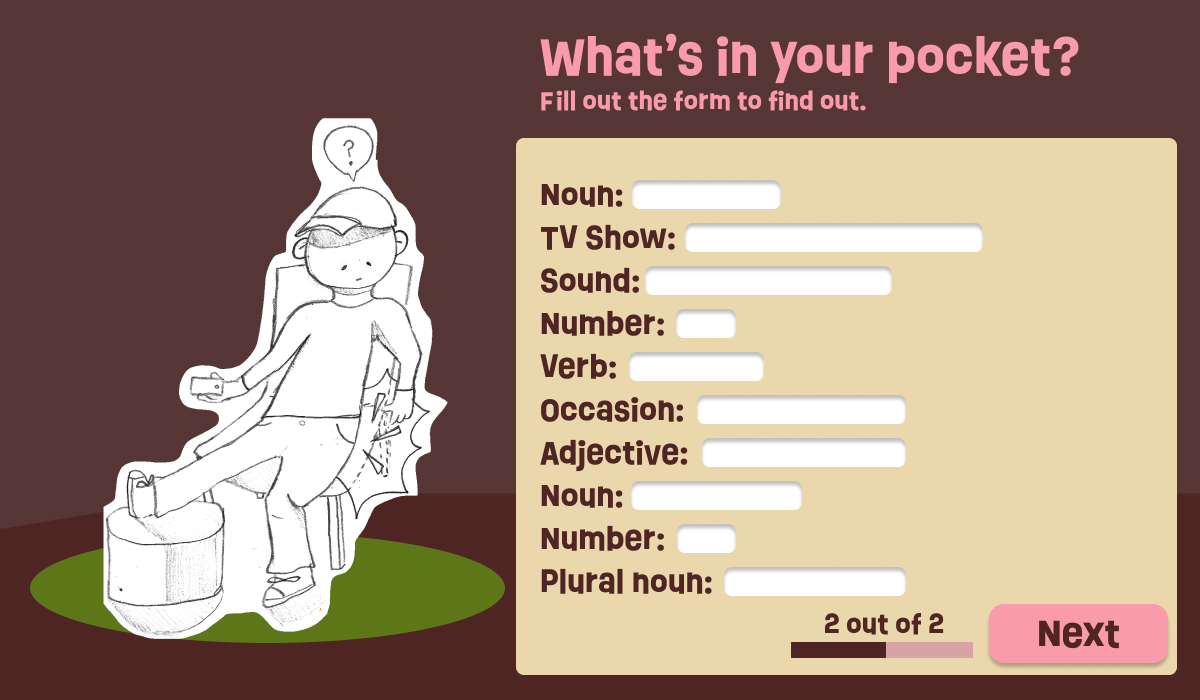
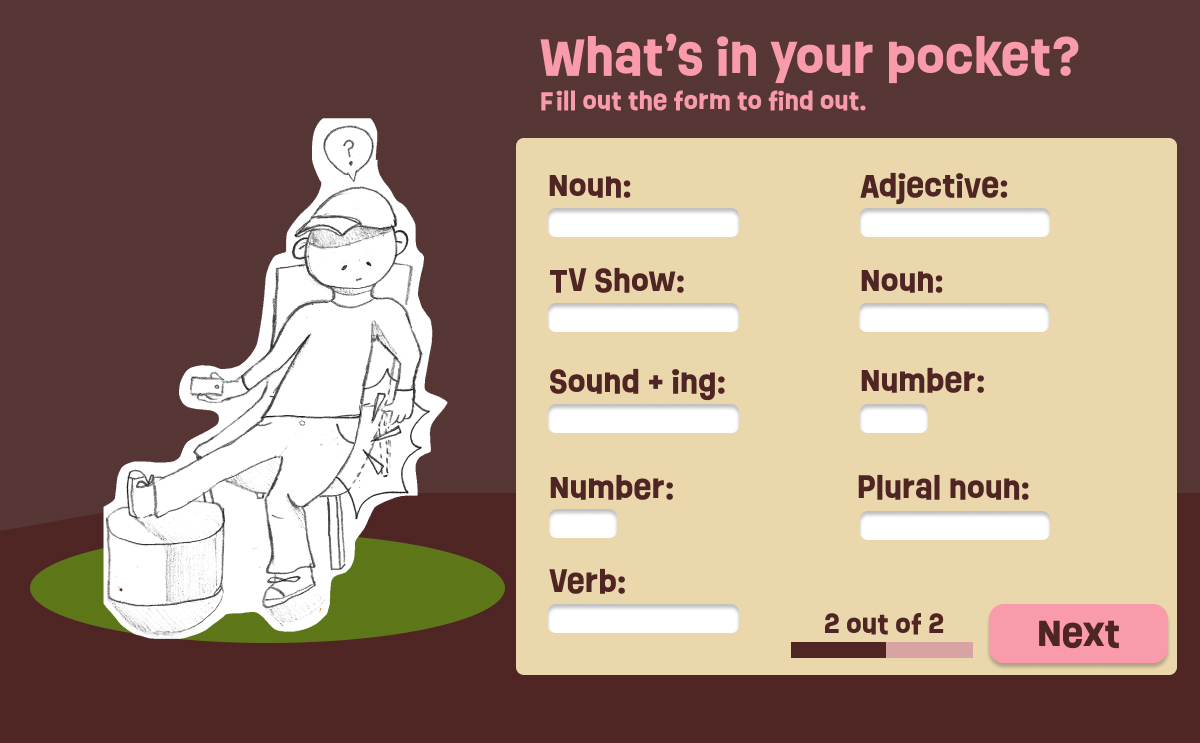
madlibs sketch

Changed region(s): [[0.0, 0.03, 0.9867, 0.99], [0.74, 0.03, 0.8942, 0.12]]

diff --git a/madlibs/sketch.html b/madlibs/sketch.html
@@ -11,67 +11,67 @@
 
     <style>
         
+        * {
+            box-sizing:border-box;
+        }
+
+        img {
+            display:block;
+        }
+
+        html {
+            background-image:url(images/hip-square.jpg);
+        }
+
         body {
-            display:grid;
-            grid-template-columns: 1fr 1fr 1fr;
-            grid-template-areas: "sketch one two"
-                                 "sketch three four";
+            height:100%;
+            margin:auto;
+            width:600px;
         }
 
-        #one {
-            grid-area:one;
-        }
-
-        #two {
-            grid-area:two;
-        }
-
-        #three {
-            grid-area:three;
-            margin-top:-350px;
-        }
-
-        #four {
-            grid-area:four;
-            margin-top:-350px;
-        }
-
-        p {
-            margin-top:500px;
-            margin-left:420px;
-            font-size:11px;
-            position:absolute;
+        h1 {
             font-family: "Faculty Glyphic";
-            columns:2;
-            width:800px;
-            column-width: 500px;
-            column-width: 100px;
-            grid-area:three;
+            text-align:center;
+            color:navy;
+            font-size: 32px;
+            margin-bottom:80px;
         }
+
+        #container {
+            display: grid;
+            grid-template-columns: repeat(2, 1fr); 
+            grid-gap: 10px; 
+            padding-bottom: 20px;
+            display:flex;
+            flex-wrap:wrap;
+            margin:auto;
+        }
+        
+        .row {
+            align-content:right;
+            flex:25%;
+            
+        }
+        
+        
+
+
 
     </style>
 
 </head>
 <body>
-    <img src="images/madlibssketch.jpg">
+    <header>
+        <h1>MadLibs Sketch</h1>
+    </header>
 
-    <div id="one">
-        <img src="images/Frame 1.jpg" width="400">
+    <div id="container">
+        <img src="images/Frame 1.jpg" width="270" class="row">
+        <img src="images/Frame 2.jpg" width="270" class="row">
+        <img src="images/Frame 3.jpg" width="270" class="row">
+        <img src="images/Frame 4.jpg" width="270" class="row">
     </div>
 
-    <div id="two">
-        <img src="images/Frame 2.jpg" width="400">
-    </div>
-
-    <div id="three">
-        <img src="images/Frame 3.jpg" width="400">
-    </div>
-
-    <div id="four">
-        <img src="images/Frame 4.jpg" width="400">
-    </div>
-
-    <p>In my sketch, I worked on creating thumbnails to storyboard what I wanted each screen to look like for my Madlibs, labeling movement along the way. I know I wanted the hands to be in the perspective of the person looking at the screen, but I workshopped how I wanted the first frame with the buzzing pocket to look. I wanted the sequence to play out like a story where you discover what's in your pocket, there is a question and a return, and a conclusion where there is the option to play again. In the digital comp frames above, I chose a red and green color palette and created quick refined sketches to place where I want the character elements to go (like the person, the small animal, and the hands). I chose a fun and friendly font to match the friendly encounter with a small animal who has a lot to say. </p>
     
 </body>
 </html>
